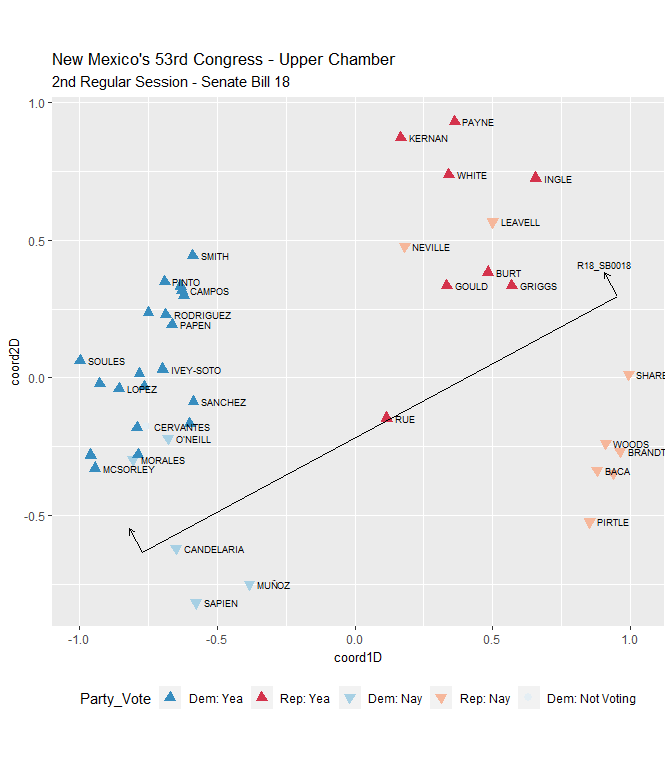
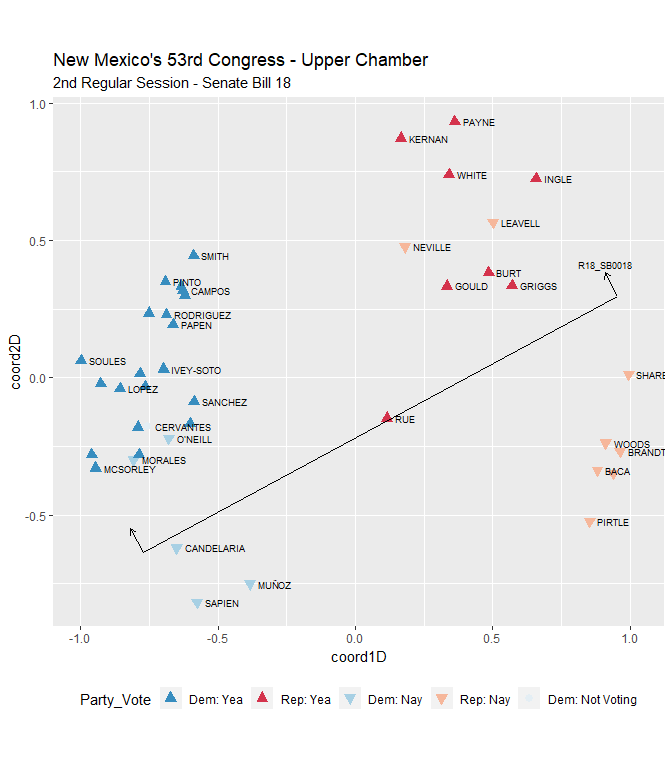
re

diff --git a/README.md b/README.md
@@ -89,7 +89,7 @@ resultd2 <- wnominate::wnominate (datRC,
 ## 
 ## 
 ## W-NOMINATE estimation completed successfully.
-## W-NOMINATE took 5.51 seconds to execute.
+## W-NOMINATE took 5.83 seconds to execute.
 ```
 
 ### Plot two-dimensional model
@@ -207,9 +207,7 @@ ggplot(aes(x=coord1D, y=coord2D)) +
   nmlegisdatr::nml_color_vote() +
   nmlegisdatr::nml_fill_vote() +
   nmlegisdatr::nml_shape_vote()+
-  theme(legend.position = 'bottom', 
-        plot.title = element_text(size=13), 
-        axis.title = element_text(size=10)) +
+  theme(legend.position = 'bottom') +
   geom_text(aes(label=Representative), 
             size=2.5, 
             check_overlap = TRUE, 
